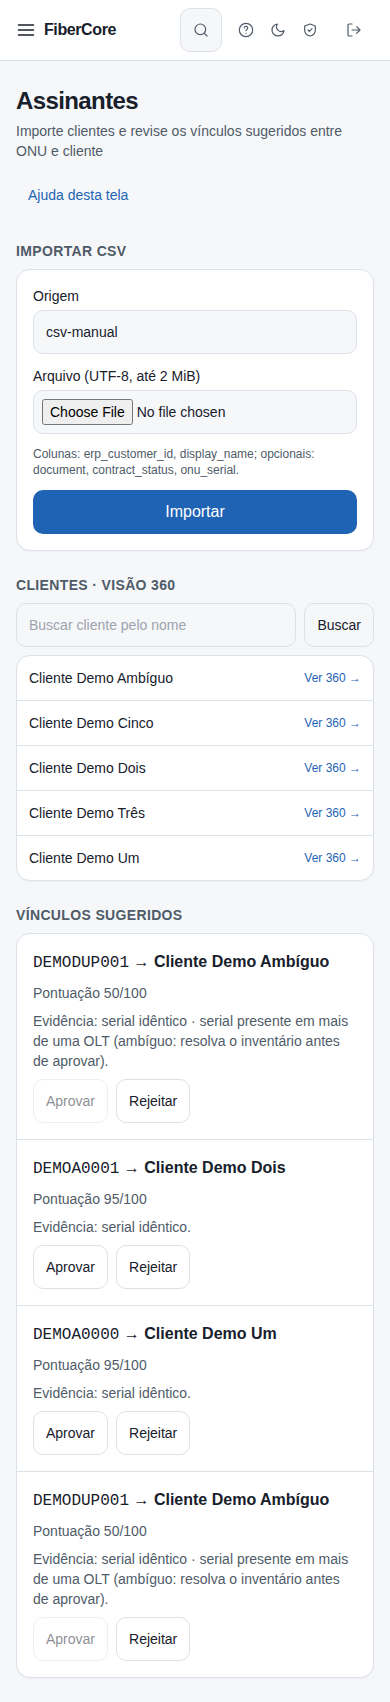
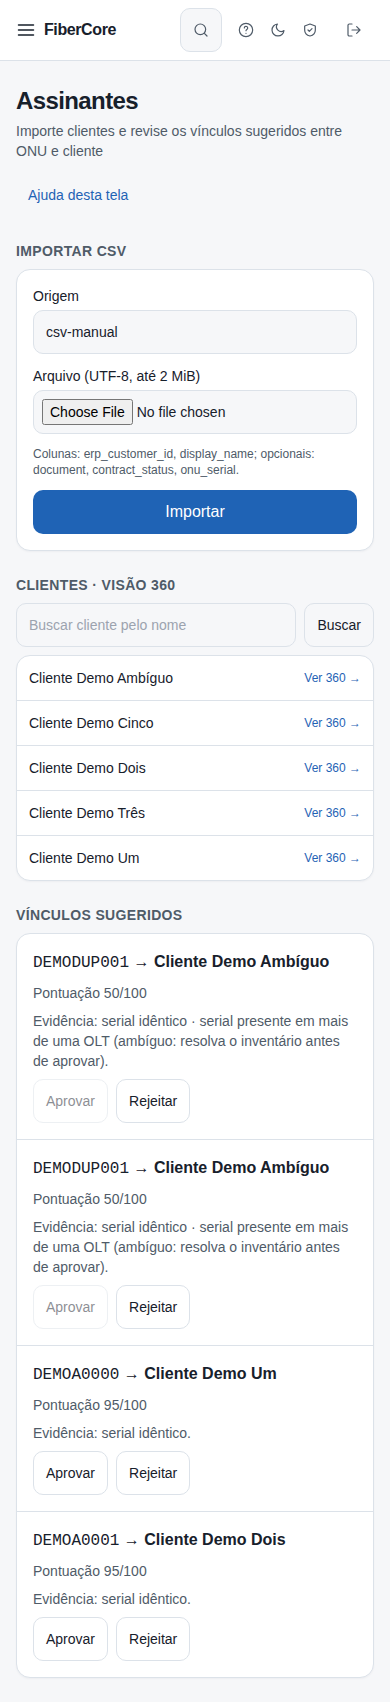
fix(web): estado de ONU não reconhecido nunca vira fora do ar/confirmado; ticket sem documento e sem sintoma como fato (Codex PR 40, round 1)
- onuState mapeia online/offline/los/dying_gasp; qualquer outro valor (inclusive unknown) = Indisponível
- resumo do ticket omite o documento e declara o sintoma como premissa do fluxo, não verificada
- E2E 48 passed

Claude-Session: https://claude.ai/code/session_01G65B8a86N96ZoCrjd2Ad9b

Changed region(s): [[0.0615, 0.6851, 0.8923, 0.9653]]

diff --git a/apps/web/src/lib/troubleshoot.ts b/apps/web/src/lib/troubleshoot.ts
@@ -8,6 +8,10 @@ export const TRUST_LABEL: Record<Trust, { label: string; icon: string }> = {
 };
 const contract: Record<string, string> = { active: "ativo", suspended: "suspenso", cancelled: "cancelado", unknown: "não informado" };
 const cause: Record<string, string> = { fiber_or_los: "suspeita de perda de sinal / fibra", power: "suspeita de falta de energia", unknown: "causa não determinada" };
+/** Estados que a OLT realmente informa; qualquer outro valor (inclusive `unknown`) NÃO é lido como online nem como fora do ar. */
+const UP = ["online"], DOWN = ["offline", "los", "dying_gasp"];
+export const onuState = (status: string): "up" | "down" | "unrecognised" => (UP.includes(status) ? "up" : DOWN.includes(status) ? "down" : "unrecognised");
+const stateText = (status: string) => ({ up: "online", down: "fora do ar", unrecognised: "em estado não reconhecido" })[onuState(status)];
 const trustOf = (p: Provenance | null): Trust => (p && p.quality === "fresh" ? "confirmado" : "indisponivel");
 const why = (p: Provenance | null) => (!p ? "sem coleta" : p.quality === "stale" ? "dado defasado" : p.quality === "unknown" ? "sem coleta" : "");
 
@@ -26,9 +30,9 @@ export function buildSteps(ctx: CustomerContext, onu: CustomerOnu | undefined, r
   }
   const s2: Step = { id: 2, title: "ONU aprovada", trust: "confirmado", provenance: null, summary: "Há uma ONU aprovada por uma pessoa para este cliente.",
     facts: [["Serial", onu.serial], ["OLT · PON", `${onu.olt}${onu.pon_path ? ` · ${onu.pon_path}` : ""}`]], action: { kind: "link", label: "Abrir a ONU 360", href: `/rede/onu/${onu.id}` } };
-  const t3 = trustOf(onu.provenance);
+  const t3: Trust = onuState(onu.status) === "unrecognised" ? "indisponivel" : trustOf(onu.provenance);
   const s3: Step = { id: 3, title: "Estado e óptica da ONU", trust: t3, provenance: onu.provenance,
-    summary: t3 === "confirmado" ? `ONU ${onu.status === "online" ? "online" : "fora do ar"} na última leitura da OLT.` : `Último estado conhecido (${why(onu.provenance)}): ${onu.status === "online" ? "online" : "fora do ar"}. A idade do dado não indica que a ONU esteja offline. Rx ausente não comprova a causa da queda.`,
+    summary: onuState(onu.status) === "unrecognised" ? "A OLT não informou um estado reconhecido para esta ONU: nada é afirmado." : t3 === "confirmado" ? `ONU ${stateText(onu.status)} na última leitura da OLT. Rx ausente não comprova a causa da queda.` : `Último estado conhecido (${why(onu.provenance)}): ${stateText(onu.status)}. A idade do dado não indica que a ONU esteja offline.`,
     facts: [["Status", onu.status], ["Rx", onu.rx_dbm !== null ? `${onu.rx_dbm} dBm` : "—"]], action: { kind: "link", label: "Abrir a ONU 360", href: `/rede/onu/${onu.id}` } };
   const f = run.finding;
   const s4: Step = { id: 4, title: "Padrão coletivo na PON (R-D001)", provenance: null,
@@ -63,10 +67,10 @@ const age = (p: Provenance, now: Date) => {
 };
 
 export function ticketSummary(customerName: string, steps: Step[], c: { trust: Trust; text: string }, now: Date): string {
-  const lines = [`Diagnóstico guiado — ${customerName}`, "Sintoma relatado: cliente sem conexão", `Gerado em ${now.toISOString()} (somente leitura; nenhuma alteração foi feita na rede).`, `Conclusão [${TRUST_LABEL[c.trust].label}]: ${c.text}`, ""];
+  const lines = [`Diagnóstico guiado — ${customerName}`, "Sintoma a investigar (premissa deste fluxo, não verificada): cliente sem conexão", `Gerado em ${now.toISOString()} (somente leitura; nenhuma alteração foi feita na rede).`, `Conclusão [${TRUST_LABEL[c.trust].label}]: ${c.text}`, ""];
   for (const s of steps) {
     lines.push(`${s.id}. ${s.title} [${TRUST_LABEL[s.trust].label}] — ${s.summary}`);
-    for (const [k, v] of s.facts) lines.push(`   - ${k}: ${v}`);
+    for (const [k, v] of s.facts) if (k !== "Documento") lines.push(`   - ${k}: ${v}`);  // o documento (mesmo parcial) não é necessário ao ticket
     if (s.provenance) lines.push(`   - Fonte: ${s.provenance.source}; observado em ${s.provenance.observed_at ?? "sem coleta"} (${s.provenance.quality}; idade: ${age(s.provenance, now)})`);
   }
   return lines.join("\n");

diff --git a/apps/web/e2e/app.spec.ts b/apps/web/e2e/app.spec.ts
@@ -192,6 +192,8 @@ test("Diagnóstico guiado: conclusão só após executar, hipótese com a PON em
   expect(txt).toContain("nenhuma alteração foi feita na rede");
   expect(txt).toContain("Hipótese");
   expect(txt).not.toMatch(/\d{3}\.\d{3}\.\d{3}/);                                              // nenhum documento completo
+  expect(txt).not.toContain("Documento");                                                     // nem os últimos dígitos
+  expect(txt).toContain("premissa deste fluxo, não verificada");                              // o sintoma não é apresentado como fato informado
   const res = await new AxeBuilder({ page: page as never }).withTags(["wcag2a", "wcag2aa", "wcag21aa", "wcag22aa"]).analyze();
   expect(res.violations.filter((v) => v.impact === "serious" || v.impact === "critical").map((v) => v.id)).toEqual([]);
   await open("Cliente Demo Três");                                                            // PON saudável: sem padrão, nunca "saudável"
